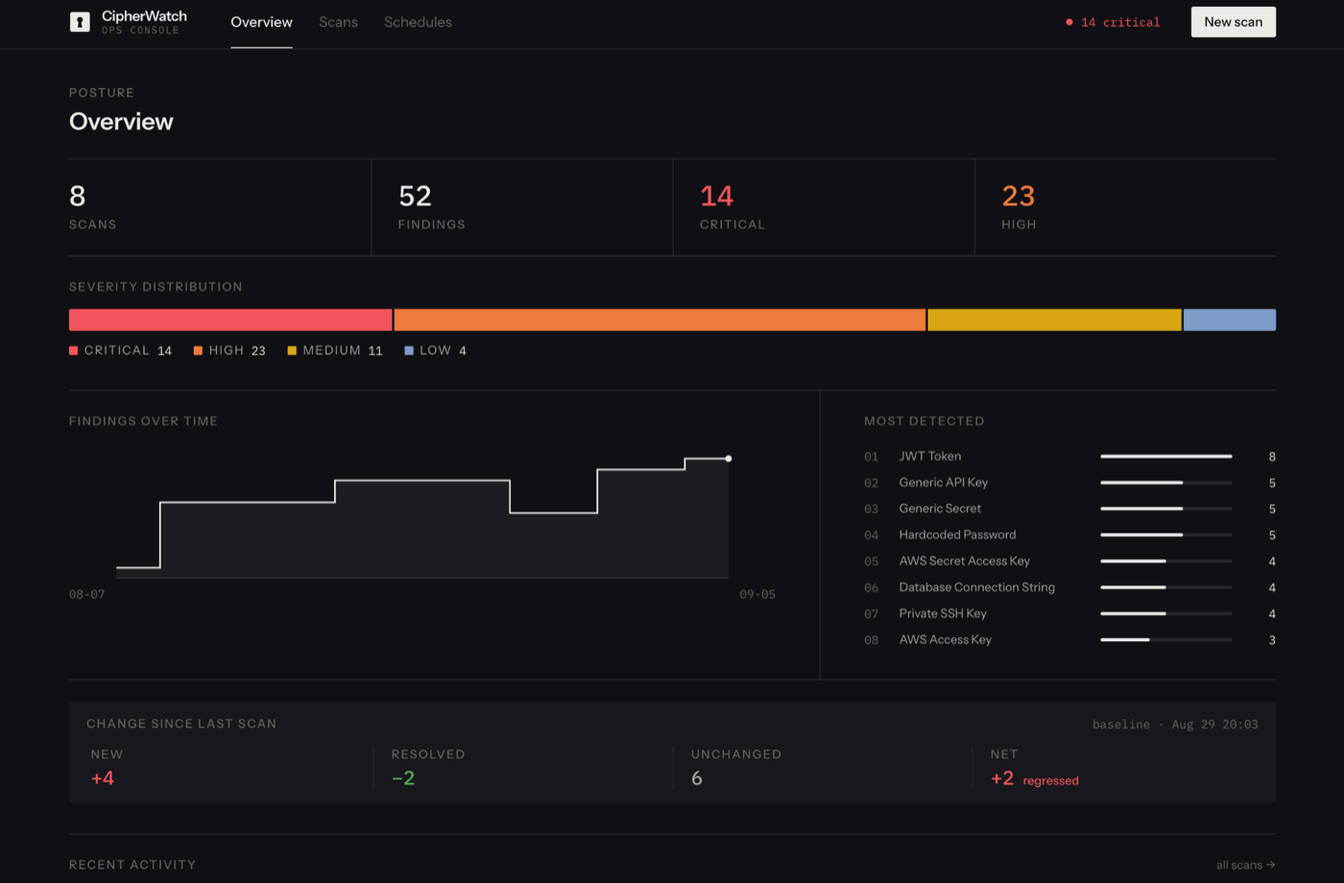
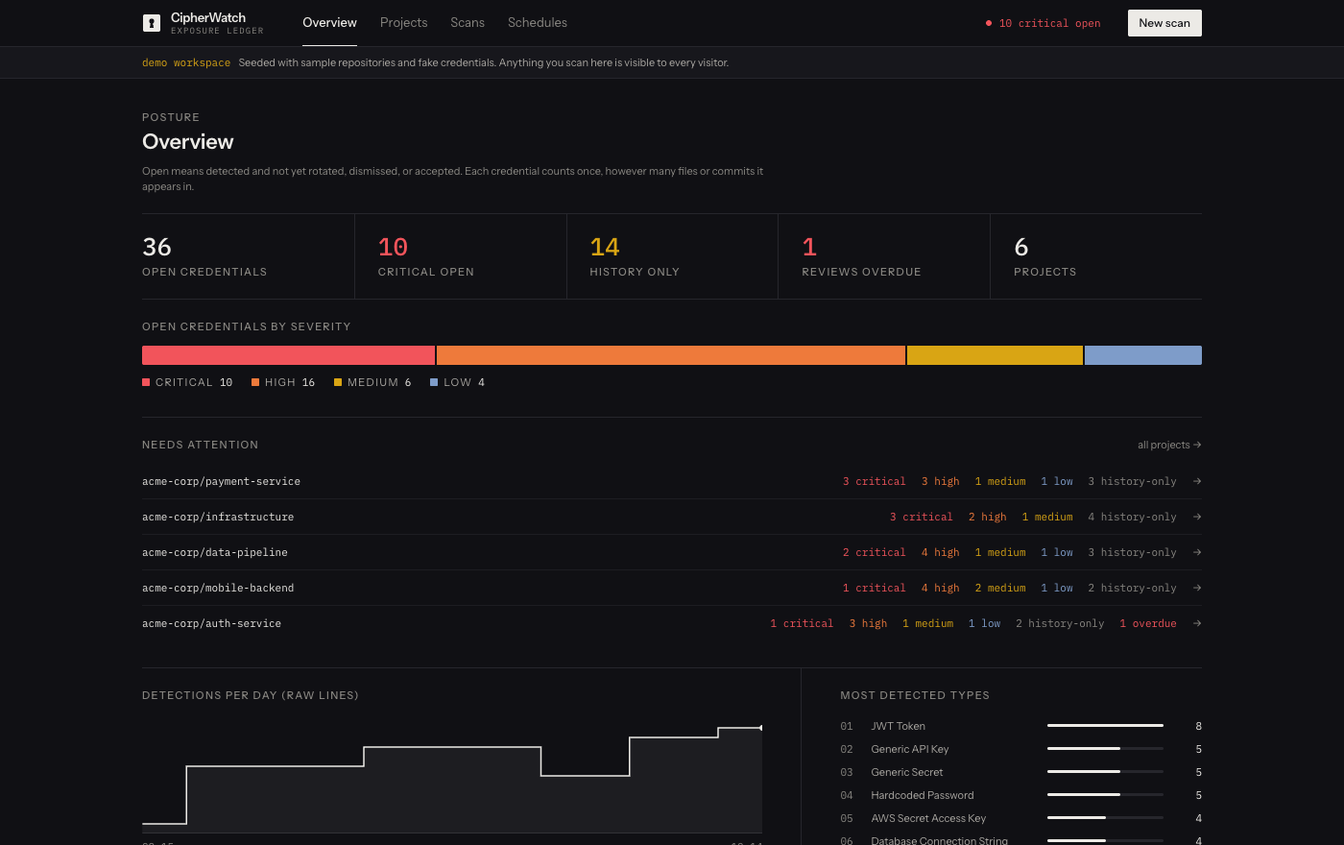
Sync projects and terminal with the knowledge document
- PrepWise: Gemini 3.5 Flash-Lite via the Vercel AI SDK, conversational
  follow-ups, 20 -> 1,000 free requests/day, latency cuts, 172 tests
- SnapCast: now 'Screen Recorder & One-Take Video Editor' with in-browser
  Whisper, pause detection, and WebCodecs export; 108 tests
- CipherWatch: now 'Credential Exposure Ledger' with HMAC-fingerprinted
  records, a CI gate, private mode, and 130 backend tests; screenshot
  replaced with the v3 ledger console (public demo workspace)
- RxFlow: India-first and globally configurable, 5 regional profiles,
  133 API routes, cookie-session security fixes, 82 tests
- Oracle certification uses its official name
- Terminal: per-project commands (prepwise, cipherwatch, ...) and chat
  answers are generated from PROJECTS, so they can't drift from the site

diff --git a/src/data/content.ts b/src/data/content.ts
@@ -119,7 +119,7 @@ export const EDUCATION: Education[] = [
 ]
 
 export const CERTIFICATIONS = [
-  { issuer: 'Oracle University', name: 'Oracle Agentic AI Foundations Associate' },
+  { issuer: 'Oracle University', name: 'Oracle Certified Foundations Associate - Agentic AI' },
   { issuer: 'DeepLearning.AI (Coursera)', name: 'Neural Networks and Deep Learning' },
   { issuer: 'DeepLearning.AI (Coursera)', name: 'Improving Deep Neural Networks: Hyperparameter Tuning, Regularization and Optimization' },
   { issuer: 'AWS Academy', name: 'AWS Academy Graduate - AWS Academy Introduction to Cloud, Semester 1' },
@@ -393,12 +393,12 @@ export const PROJECTS: Project[] = [
     types: ["fs", "ml"],
     num: "03",
     title: "PrepWise - AI Voice Interview Platform",
-    desc: "AI interview platform running adaptive voice interviews with a delivery-aware interviewer, live coding rounds with in-browser code execution, company-specific modes, and résumé-aware questions, entirely on browser-native and free-tier infrastructure.",
+    desc: "AI interview platform running adaptive voice interviews with a conversational interviewer that follows up on what the candidate actually said and reacts to hesitation and confidence, plus live coding rounds with in-browser code execution, company-specific styles, and résumé-aware questions, entirely on browser-native and free-tier infrastructure.",
     badges: [
       { label: "Full-Stack", cls: "fs" },
       { label: "AI / ML", cls: "ml" },
     ],
-    chips: ["Next.js 15", "TypeScript", "Gemini 2.5 Flash", "Web Speech API", "Monaco Editor", "Pyodide / WASM", "Firebase"],
+    chips: ["Next.js 15", "TypeScript", "Gemini 3.5 Flash-Lite", "Vercel AI SDK", "Web Speech API", "Monaco Editor", "Pyodide / WASM", "Firebase"],
     image: "/projects/prepwise.png",
     live: "https://mock-ai-prep.vercel.app",
     repo: "https://github.com/Udit013/ai_mock_interview_prep",
@@ -407,16 +407,16 @@ export const PROJECTS: Project[] = [
       { value: "9", label: "Company Modes" },
     ],
     study: {
-      problem: "Interview practice tools ask scripted questions and score the words you type. They ignore how you actually come across under pressure, and they cannot run a real coding round, the two things that decide onsite outcomes.",
-      approach: "Built a delivery-aware interviewer on Gemini that measures how you speak, not just what you say, and paired it with a CoderPad-style live coding round that executes real code in the browser, no paid speech services, no backend runners.",
+      problem: "Interview practice tools ask scripted questions and score the words you type. They ignore how you actually come across under pressure, rarely follow up on what you just said, and cannot run a real coding round, the things that decide onsite outcomes.",
+      approach: "Built a conversational interviewer on Gemini that follows up on the candidate's actual answers and measures how they speak, not just what they say, kept in line by deterministic guards the model can't override, and paired it with a CoderPad-style live coding round that executes real code in the browser: no paid speech services, no backend runners.",
       result: "Five interview formats (technical, behavioral, mixed, system design, and live coding) with replay, shareable reports, and progress tracking, running at $0 infrastructure cost.",
       highlights: [
-        "Made the interviewer react to how candidates answer: the browser measures hesitation, pace, and filler density each turn, and in live Gemini runs a hesitant answer dropped the confidence estimate from 50 to 20 and triggered a fundamentals probe, all in one schema-validated LLM call per turn",
-        "Cut per-interview speech costs to $0 across 5 interview formats by replacing paid speech-to-text and text-to-speech with browser-native recognition and synthesis, with continuous capture that survives pauses and recognizer restarts",
+        "Made the interviewer react to how candidates answer: the browser measures hesitation, pace, and filler density, and in live Gemini runs a hesitant answer dropped the confidence estimate from 50 to 20 and triggered a fundamentals probe while a composed one raised it to 80, all in one schema-validated LLM call per turn",
+        "Raised free AI capacity from 20 to 1,000 requests/day and cut latency (question generation ~8–10 s → ~2.5 s, interview turns ~4–7 s → ~2–2.5 s) by moving to Gemini Flash-Lite behind a model chain that fails over to a second model only on quota exhaustion or a retired model",
+        "Made interviews feel like a conversation rather than a questionnaire with deterministic guards: a 3-turn cap per topic, a forward-only question index, one question per turn, stripped scripted openers, and content-word similarity scoring that eliminates reworded duplicate questions",
+        "Cut per-interview speech costs to $0 across 5 interview formats with browser-native recognition and synthesis, using continuous capture that survives pauses and recognizer restarts, with retryable submissions and a 45 s cap on every model call",
         "Shipped live coding rounds with real in-browser execution for JavaScript and Python in a terminable Web Worker with a lazily loaded Pyodide (WASM) runtime, killing infinite loops at a 5 s (JS) / 15 s (Python) timeout without freezing the tab",
-        "Supported 9 company interview styles (Google, Amazon, Meta, McKinsey, BCG, and more) from a single config registry, so adding a company is one config entry",
-        "Grounded questions in candidates' real projects by extracting résumé PDFs with unpdf and structuring them with Gemini, and scored each interview on 5 competencies plus STAR completeness with replay and revocable share links",
-        "Closed a class of IDOR vulnerabilities by cutting the public Server Action surface from 19 to 9, alongside session auth, bounded payloads, and per-user daily rate limits, covered by a 120-test Vitest suite in CI",
+        "Closed a class of IDOR vulnerabilities by cutting the public Server Action surface from 19 to 9 and cleared all 5 critical dependency advisories with a Next.js 15.5 upgrade, alongside per-user daily rate limits on every model-backed endpoint, covered by a 172-test Vitest suite in CI",
       ],
     },
     delay: ".06s",
@@ -458,7 +458,7 @@ export const PROJECTS: Project[] = [
     types: ["fs", "dt", "sys"],
     num: "05",
     title: "RxFlow - Multi-Tenant Pharmacy ERP",
-    desc: "Multi-tenant pharmacy ERP for the Indian market: GST-compliant billing (CGST/SGST/IGST, GSTR-1/3B), transactionally consistent inventory and accounting, procurement, and payroll, with real-time multi-device sync over Server-Sent Events, deployed on $0 free-tier infra.",
+    desc: "India-first, globally configurable multi-tenant pharmacy ERP: inventory, tax-compliant billing, procurement, accounting, and payroll with real-time sync, role-based access, and transactionally consistent operations. Country-specific tax, formats, and regulation come from regional profiles rather than code, all on $0 free-tier infra.",
     badges: [
       { label: "Full-Stack", cls: "fs" },
       { label: "Data", cls: "dt" },
@@ -469,20 +469,20 @@ export const PROJECTS: Project[] = [
     live: "https://rx-flow-web.vercel.app",
     repo: "https://github.com/Udit013/RxFlow",
     stats: [
-      { value: "22", label: "API Route Modules" },
-      { value: "5", label: "Distributor Formats" },
+      { value: "133", label: "API Routes" },
+      { value: "5", label: "Regional Profiles" },
     ],
     study: {
-      problem: "Indian pharmacies run on legacy desktop software like Marg and Tally: single-machine, no real-time sync across counters, and GST compliance bolted on. Replacing it means getting inventory, billing, accounting, and payroll correct in one system, for tenants who cannot afford downtime or data drift.",
-      approach: "Built a multi-tenant monorepo where every signup provisions an isolated tenant, made every money-and-stock operation atomic inside database transactions, and pushed updates to every device over Server-Sent Events.",
-      result: "A production ERP covering inventory, GST-compliant billing, procurement, accounting, and payroll, running on $0 free-tier infrastructure with full audit trails.",
+      problem: "Pharmacies run on legacy desktop software like Marg and Tally: single-machine, no real-time sync across counters, and tax compliance bolted on. Replacing it means getting inventory, billing, accounting, and payroll correct in one system, for tenants who cannot afford downtime or data drift, and in more than one country.",
+      approach: "Built a multi-tenant monorepo where every signup provisions an isolated tenant, made every money-and-stock operation atomic inside database transactions, pushed updates to every device over Server-Sent Events, and moved country-specific tax, formats, and regulation into configurable regional profiles.",
+      result: "A production ERP covering inventory, tax-compliant billing, procurement, accounting, and payroll across 5 regional profiles, running on $0 free-tier infrastructure with full audit trails.",
       highlights: [
-        "Built a pnpm/Turborepo monorepo (Fastify API, Next.js 14 web app, shared Prisma package) spanning 22 API route modules and ~40 Prisma models, where every signup provisions an isolated tenant and every query is tenant-scoped from the JWT",
-        "Automated Indian GST compliance end to end (GSTR-1, GSTR-3B, sales/purchase and Schedule H1 registers with Excel/CSV export) with a line-item tax engine that routes CGST+SGST vs IGST by comparing store and party state",
-        "Kept stock and ledgers consistent across sales, purchases, returns, transfers, and stock-takes with single Prisma transactions, and prevented order-number collisions under concurrent billing with a unique-constraint retry",
-        "Kept every open counter in sync without polling through tenant-scoped Server-Sent Events wired into the audit layer, invalidating the exact React Query caches on every connected client",
-        "Built a plugin-based CSV purchase-import architecture where each distributor layout is a small column-map config scored by a shared auto-detector, verified against real invoices from five distributors, so a new distributor is one config addition with zero logic changes",
-        "Hardened auth with rotating refresh JWTs, bcrypt-hashed OTPs, and per-route rate limits, added AES-256-GCM client-side encrypted backups via the Web Crypto API, and gated CI with a 32-test Vitest suite that caught a financial-year boundary bug",
+        "Architected a pnpm/Turborepo monorepo (Fastify API, Next.js 14 web app, shared Prisma, types, and regional packages) spanning 133 API routes across 22 modules and ~40 Prisma models, where every signup provisions an isolated tenant and every query is tenant-scoped",
+        "Made the platform adaptable to any country without code changes: 5 regional profiles (India, US, UK, UAE, international) and 4 pluggable tax engines (India GST, VAT, US sales tax, none), while keeping India's GST behaviour and GSTR-1/GSTR-3B filing data unchanged",
+        "Closed a critical cross-tenant data-exposure path, where a refresh token replayed as an access token silently dropped the tenant filter, and enforced one shared 8-role matrix across 124 authenticated routes",
+        "Moved sessions out of localStorage into rotating httpOnly, SameSite=Strict cookies with SHA-256 token hashes, after finding bcrypt's 72-byte input limit made every refresh token of a user interchangeable",
+        "Kept stock and ledgers consistent under concurrent billing with single Prisma transactions and an in-decrement stock floor that stops overselling, and kept every counter in sync without polling via tenant-scoped Server-Sent Events",
+        "Cut API cold-start boot 3.3× (1.75 s → 0.52 s, measured locally) and export-heavy pages' first-load JS by ~29% (318 → 226 kB), and grew automated coverage from 32 to 82 Vitest tests gated by GitHub Actions CI",
       ],
     },
     delay: ".30s",
@@ -490,32 +490,32 @@ export const PROJECTS: Project[] = [
   {
     types: ["fs", "ml", "sys"],
     num: "06",
-    title: "SnapCast - Screen Recording & Video Sharing",
-    desc: "Browser-native screen recording and sharing with webcam picture-in-picture, direct-to-CDN uploads, Web Speech transcription, Gemini-generated chapters and summaries, 3-tier privacy with share tokens, and channel analytics.",
+    title: "SnapCast - Screen Recorder & One-Take Video Editor",
+    desc: "Screen recorder with a one-take editor for developer demos and walkthroughs: record without rehearsing, tighten pauses and delete flubbed sentences from the transcript, then share the edit or export an MP4. Transcription, audio analysis, and rendering run in the browser, alongside AI chapters, privacy-controlled sharing, and analytics on free-tier infrastructure.",
     badges: [
       { label: "Full-Stack", cls: "fs" },
       { label: "AI / ML", cls: "ml" },
       { label: "Systems", cls: "sys" },
     ],
-    chips: ["Next.js 15", "React 19", "TypeScript", "Neon PostgreSQL", "Drizzle ORM", "Cloudinary", "Gemini"],
+    chips: ["Next.js 15", "React 19", "TypeScript", "Whisper (WASM)", "WebCodecs", "Neon PostgreSQL", "Cloudinary", "Gemini"],
     image: "/projects/snapcast.png",
     live: "https://snapcast-video-sharing.vercel.app",
     repo: "https://github.com/Udit013/screen_recording_sharing_app",
     stats: [
       { value: "1080", suffix: "p", label: "Screen + Webcam" },
-      { value: "500", suffix: "MB", label: "Direct Uploads" },
+      { value: "108", label: "Tests in CI" },
     ],
     study: {
-      problem: "Screen recording tools either demand an extension or a native install, and once a video exists it becomes an opaque blob: no way to search inside it, jump to the moment that matters, or discuss a specific second of it.",
-      approach: "Captured everything in the browser with MediaRecorder and Canvas, uploaded straight to a CDN, transcribed during recording, and used the transcript as the index that makes the video searchable and navigable.",
-      result: "A Loom-style platform where recordings arrive already transcribed, chaptered, summarized, and searchable, with a custom player, threaded timestamp comments, and three tiers of sharing control.",
+      problem: "A clean demo recording usually takes rehearsal or several takes, because the pauses and flubbed sentences of a single take need a separate editing tool, and transcribing or rendering video on a server costs money for every minute processed.",
+      approach: "Kept the whole edit in the browser: Whisper transcription, adaptive pause detection, and WebCodecs MP4 rendering run in Web Workers and WASM, while the server only stores a validated cut list, so edits stay non-destructive and live on share links.",
+      result: "A Loom-style recorder with a one-take editor: tighten pauses and delete flubbed sentences straight from the transcript, then share the edit or export an MP4, at $0 per minute processed.",
       highlights: [
-        "Built extension-free screen recording with webcam picture-in-picture at 1080p / 30 fps by compositing both streams onto a Canvas recorded with MediaRecorder, with a configurable webcam overlay",
-        "Fixed recordings freezing on tab switches by moving the compositor off requestAnimationFrame, which browsers suspend in background tabs, onto a Web Worker timer",
-        "Limited crash or refresh data loss to about 1 second of footage by persisting each MediaRecorder chunk to IndexedDB and offering one-click restore",
-        "Kept video bytes off the app server for uploads up to 500 MB by signing Cloudinary uploads server-side, scoped to a single public_id, and uploading directly from the browser",
-        "Generated summaries, tags, and up to 8 chapters per video by running two Gemini calls concurrently, and made every recording searchable with a live Web Speech transcript and click-to-seek",
-        "Closed 10 cross-user access flaws found in a security audit by centralizing video-access rules in one tested module, and shipped a fully custom player and threaded timestamp comments gated by a 39-test Vitest suite in CI",
+        "Built a transcript-based video editor at $0 per minute processed by running Whisper, pause detection, and MP4 rendering in the browser (Web Workers + WASM), with the server only storing a validated cut list; the editor opens in ~1.6 s on a 10-minute recording",
+        "Detected pauses with an adaptive loudness threshold that matched ffmpeg silencedetect on 8 of 8 pauses within ~60 ms, set from each recording's own noise floor and speech level and refusing to cut below 10 dB of separation",
+        "Fixed Whisper word timestamps running 0.2–0.5 s late, which left deleted sentences partly audible, by snapping word edges to measured pauses, locked in by a regression test on real model output",
+        "Rendered edits to MP4 on the user's hardware with WebCodecs after measuring Cloudinary splicing as unusable (26.4 s instead of 15 s), keeping audio and video within 31 ms at 5–7× real time",
+        "Built extension-free 1080p / 30 fps recording with a webcam overlay, a Web Worker timer so recordings don't freeze in background tabs, IndexedDB crash recovery that loses at most ~1 s, and direct signed uploads up to 500 MB",
+        "Closed 10 cross-user access flaws from a security audit by centralizing access rules in one unit-tested module, and shipped a custom player, timestamp comments, revocable share links, and SQL-aggregated analytics gated by 108 tests in CI",
       ],
     },
     delay: ".18s",
@@ -523,30 +523,30 @@ export const PROJECTS: Project[] = [
   {
     types: ["sys"],
     num: "07",
-    title: "CipherWatch - Secret Exposure & Risk Detection",
-    desc: "DevSecOps platform detecting hardcoded secrets in GitHub repositories and pasted code via regex, Shannon-entropy gating, and placeholder/test-file filtering, with opt-in git-history scanning, 0–100 exposure risk scoring, differential scanning, real-time WebSocket progress, and SARIF export.",
+    title: "CipherWatch - Credential Exposure Ledger",
+    desc: "Credential exposure ledger for GitHub repositories: detects leaked credentials in current code and git history, collapses every copy into one record keyed by an HMAC fingerprint that never contains the secret, and tracks each to a decision (rotated, false positive, or accepted risk with an expiry), with a CI gate that fails only on new credentials and emits SARIF.",
     badges: [
       { label: "Systems", cls: "sys" },
     ],
-    chips: ["Python", "FastAPI", "SQLAlchemy", "SQLite", "WebSockets", "React", "APScheduler"],
+    chips: ["Python", "FastAPI", "SQLAlchemy", "PostgreSQL / SQLite", "React", "TypeScript", "Docker", "GitHub Actions"],
     image: "/projects/cipherwatch.png",
     live: "https://cipherwatch-web.vercel.app",
     repo: "https://github.com/Udit013/automated-secrets-scanner",
     stats: [
-      { value: "26", label: "Secret Types" },
-      { value: "96", suffix: "K", label: "Lines / sec" },
+      { value: "26", label: "Credential Types" },
+      { value: "130", label: "Backend Tests" },
     ],
     study: {
-      problem: "A credential committed once stays in git history forever, and scanning only the current checkout misses it entirely. Worse, naive pattern matching floods engineers with false positives until they stop reading the report.",
-      approach: "Paired format-specific regexes with Shannon-entropy gating and placeholder and test-path filtering to cut noise, reconstructed each secret's exposure lifecycle from opt-in git-history scans, and scored every finding on a transparent 0–100 scale.",
-      result: "A DevSecOps platform detecting 26 credential types across 36 file extensions at ~96K lines/sec, exporting SARIF 2.1.0 for GitHub code scanning, behind a security console built from scratch.",
+      problem: "A credential committed once stays in git history until someone rotates it, and scanning only the current checkout misses it. Scanners also report every copy of a key as a separate finding with no memory of what was already triaged, so teams stop reading the report.",
+      approach: "Fingerprinted every credential with a keyed HMAC so each copy across files and commits becomes one ledger record tracked to a decision, and gated CI only on credentials that are not already in a committed baseline.",
+      result: "A credential exposure ledger with a CLI and composite GitHub Action that emit SARIF, a console with per-project triage and provider rotation links, and an optional private mode, running at $0 on free tiers.",
       highlights: [
-        "Detected 26 credential types (AWS, GCP, GitHub, Stripe, Slack, JWTs, SSH/PGP keys, database connection strings) across 36 file extensions at ~96K lines/sec by pairing 23 format-specific regexes with Shannon-entropy gating and 23 placeholder and test-path rules",
-        "Collapsed 1,351 per-commit matches across 907 file snapshots into 82 unique findings (−94%) by aggregating each secret and reconstructing its lifecycle: introduced and last-seen dates, exposure days, commits, and distinct authors",
-        "Made triage explainable with a 0–100 exposure risk score where every point traces to a stated reason, plus differential scanning that labels findings new, resolved, or unchanged against the prior run",
-        "Built an async FastAPI backend with 18 REST endpoints and a WebSocket channel streaming scan-lifecycle events, cron-scheduled scans with SMTP alerts, and bounded inputs on every endpoint, deployed at $0 on Render + Vercel",
-        "Plugged findings into existing workflows with 5 export formats, including SARIF 2.1.0 for GitHub code scanning and a downloadable remediation patch for 6 targets",
-        "Cut shipped JavaScript by 56% (733 → 321 KB) by replacing charting and icon libraries with hand-built SVG inside a from-scratch design system (15.8:1 text contrast), verified by 75 tests in a 4-job GitHub Actions pipeline",
+        "Detected 26 credential types (8 critical, 17 high, 1 medium) across 40 file extensions plus 11 extensionless credential files (id_rsa, .npmrc, …) by pairing 23 format-specific regexes with Shannon-entropy gating and 14 placeholder rules; measured ~96K lines/sec single-threaded on v2.1 of the engine",
+        "Turned line-level findings into a credential ledger with keyed HMAC-SHA256 fingerprints, so one key copied across files and commits is one record whose triage decision persists across rescans; accepted risks require a review date within 366 days and reopen automatically",
+        "Built a CI gate that fails only on new credentials: a CLI (exit codes 0 / 1 / 2, text / JSON / SARIF 2.1.0) and a composite GitHub Action that passes inputs only through env vars, with baselines that store fingerprints, never secrets",
+        "Added optional private mode covering all 22 HTTP endpoints plus the WebSocket, with the token kept out of URLs and access logs, and bounded the public demo with a per-IP sliding window (10 scans / 10 min) that can't be spoofed through X-Forwarded-For",
+        "Found and fixed real defects by testing against PostgreSQL and real repositories, including scheduler timestamps Postgres rejected, fingerprints that changed every scan, and key files never scanned while .venv was (2,392 → 89 files)",
+        "Verified every change with 130 backend tests plus 19 legacy tests on SQLite, PostgreSQL 18, and Python 3.11 in a 4-job GitHub Actions pipeline, with 0 known vulnerabilities from pip-audit and runtime npm audit, deployed at $0",
       ],
     },
     delay: ".36s",

diff --git a/src/data/terminal.ts b/src/data/terminal.ts
@@ -2,7 +2,40 @@
  * terminal.ts — knowledge base + chat FAQ for the interactive terminal.
  * The string values may contain HTML (rendered via dangerouslySetInnerHTML,
  * exactly as in the original vanilla implementation — content is static/trusted).
+ *
+ * Per-project commands (`prepwise`, `cipherwatch`, …) and their chat answers
+ * are generated from PROJECTS in content.ts, so the terminal can't drift from
+ * the project cards and case-study drawers.
  */
+import { PROJECTS, type Project } from './content'
+
+const esc = (s: string) => s.replace(/&/g, '&amp;').replace(/</g, '&lt;').replace(/>/g, '&gt;')
+const link = (href: string, text: string) =>
+  `<a class="t-link" href="${href}" target="_blank" rel="noopener noreferrer">${text}</a>`
+
+/** "PrepWise - AI Voice Interview Platform" → command "prepwise" */
+const projectKey = (p: Project) => p.title.split(' - ')[0].trim().toLowerCase().replace(/[^a-z0-9]/g, '')
+
+function projectDetail(p: Project): string {
+  const [name, subtitle] = p.title.split(' - ')
+  const stats = (p.stats ?? []).map((s) => `<span class="t-hi">${esc(s.value + (s.suffix ?? ''))}</span> ${esc(s.label)}`).join('  ·  ')
+  const links = [
+    p.live && link(p.live, 'live'),
+    p.repo && link(p.repo, 'code'),
+    p.paper && link(p.paper, 'paper'),
+    p.model && link(p.model, 'model'),
+  ].filter(Boolean).join(' · ')
+  return [
+    `<span class="t-hi">${esc(name)}</span>${subtitle ? `  ·  ${esc(subtitle)}` : ''}`,
+    esc(p.desc),
+    stats,
+    ...(p.study?.highlights ?? []).map((h) => `  → ${esc(h)}`),
+    `<span class="t-sys">${esc(p.chips.join(' · '))}</span>`,
+    links,
+  ].filter(Boolean).join('\n')
+}
+
+const PROJECT_COMMANDS: Record<string, string> = Object.fromEntries(PROJECTS.map((p) => [projectKey(p), projectDetail(p)]))
 
 export const KB: Record<string, string> = {
   help: `<span class="t-sys">Portfolio Terminal  ·  Commands:</span>
@@ -11,6 +44,7 @@ export const KB: Record<string, string> = {
 <span class="t-hi">skills</span>         Full tech stack
 <span class="t-hi">experience</span>     Work history
 <span class="t-hi">projects</span>       Flagship projects
+<span class="t-hi">&lt;project&gt;</span>      Details, e.g. <span class="t-hi">prepwise</span> · <span class="t-hi">cipherwatch</span>
 <span class="t-hi">education</span>      Academic background
 <span class="t-hi">research</span>       IEEE publication &amp; AI/ML
 <span class="t-hi">certifications</span> Oracle, DeepLearning.AI &amp; AWS Academy
@@ -74,15 +108,17 @@ Email: agarwaludit13@gmail.com  ·  Phone: +1 (930) 904-4901
 <span class="t-hi">02</span>  Veritome (Biomedical RAG)       [AI/ML] · <a class="t-link" href="https://huggingface.co/spaces/Udit013/biomed-assistant" target="_blank" rel="noopener noreferrer">live</a>
     Qwen2.5-7B QLoRA · RAG · LangGraph agents · pgvector
 <span class="t-hi">03</span>  PrepWise (AI Voice Interviews)  [AI/ML · Full-Stack] · <a class="t-link" href="https://mock-ai-prep.vercel.app" target="_blank" rel="noopener noreferrer">live</a>
-    Gemini 2.5 · Web Speech · Monaco + Pyodide/WASM · $0 infra
+    Gemini 3.5 Flash-Lite · Web Speech · Monaco + Pyodide/WASM · $0 infra
 <span class="t-hi">04</span>  CoreSightIQ (Decision Intel.)   [Analytics] · <a class="t-link" href="https://coresightiq.vercel.app" target="_blank" rel="noopener noreferrer">live</a>
     3 products, 1 core engine · walk-forward backtesting
 <span class="t-hi">05</span>  RxFlow (Pharmacy ERP)           [Full-Stack] · <a class="t-link" href="https://rx-flow-web.vercel.app" target="_blank" rel="noopener noreferrer">live</a>
-    Multi-tenant · GST billing · real-time sync (SSE)
-<span class="t-hi">06</span>  SnapCast (Screen Recording)     [Full-Stack] · <a class="t-link" href="https://snapcast-video-sharing.vercel.app" target="_blank" rel="noopener noreferrer">live</a>
+    Multi-tenant · 5 regional profiles · 4 tax engines · SSE sync
+<span class="t-hi">06</span>  SnapCast (One-Take Editor)      [Full-Stack] · <a class="t-link" href="https://snapcast-video-sharing.vercel.app" target="_blank" rel="noopener noreferrer">live</a>
     Next.js · Cloudinary · AI chapters · better-auth
-<span class="t-hi">07</span>  CipherWatch (Secret Exposure)   [Systems] · <a class="t-link" href="https://cipherwatch-web.vercel.app" target="_blank" rel="noopener noreferrer">live</a>
-    FastAPI · entropy + regex · SARIF · 26 secret types`,
+<span class="t-hi">07</span>  CipherWatch (Credential Ledger) [Systems] · <a class="t-link" href="https://cipherwatch-web.vercel.app" target="_blank" rel="noopener noreferrer">live</a>
+    HMAC ledger · CI gate · SARIF · 26 credential types
+
+<span class="t-sys">Type a project name (e.g. prepwise) for details.</span>`,
 
   education: `<span class="t-hi">MS Computer Science</span>  ·  Indiana University Bloomington
   Aug 2024 – May 2026  ·  GPA: <span class="t-hi">3.84 / 4.0</span>
@@ -106,7 +142,7 @@ Role:     Co-author
   Transformers · BERT · Prompt Engineering · RAG`,
 
   certifications: `<span class="t-hi">Oracle University</span>
-  Oracle Agentic AI Foundations Associate · Sep 2026
+  Oracle Certified Foundations Associate - Agentic AI · Sep 2026
 
 <span class="t-hi">DeepLearning.AI (Coursera)</span>
   Neural Networks and Deep Learning
@@ -152,18 +188,25 @@ Role:     Co-author
   ml: 'research',
   pub: 'research',
   certs: 'certifications',
+
+  ...PROJECT_COMMANDS,
 }
 
 export const CHAT_FAQ: { q: RegExp; a: string }[] = [
+  // A named project gets its own answer before the generic "projects" one.
+  ...PROJECTS.map((p) => ({
+    q: new RegExp(`\\b${projectKey(p)}\\b`, 'i'),
+    a: `${esc(p.title)}: ${esc(p.desc)} Type <span class="t-hi">${projectKey(p)}</span> for highlights and links.`,
+  })),
   { q: /hire|job|full.?time|intern|open.?to|available|role/i, a: 'Udit is open to full-time SWE, AI/ML, and Data roles. Open to remote, hybrid, and relocation anywhere in the US. Email: agarwaludit13@gmail.com · Phone: +1 (930) 904-4901' },
   { q: /ieee|research|paper|publish|brain.?tumor/i, a: 'Udit co-authored an IEEE paper at ICC-ROBINS 2024 on brain tumor classification: 99.84% accuracy on 7,023 MRI scans with EfficientNetB3. DOI: 10.1109/ICC-ROBINS60238.2024.10533941' },
   { q: /gpa|grade|school|degree|university|master|indiana/i, a: 'MS CS at Indiana University Bloomington, GPA 3.84/4.0, May 2026. B.Tech at KIIT, GPA 8.85/10.0.' },
   { q: /skill|tech|stack|language|python|react|framework/i, a: 'Python, TypeScript, React, Next.js, Node.js, Fastify, FastAPI, PostgreSQL, PyTorch, TensorFlow, Hugging Face, QLoRA, Gemini API, Ollama, Docker, AWS. Type "skills" for the full list.' },
-  { q: /project|built|app|demo|portfolio/i, a: '7 flagship projects: NeuroClass (IEEE brain tumor MRI classifier), PrepWise (AI voice interviews), Veritome (biomedical RAG + QLoRA), SnapCast (screen recording), CoreSightIQ (decision intelligence), RxFlow (multi-tenant pharmacy ERP), and CipherWatch (secret exposure detection). Type "projects" for all.' },
+  { q: /project|built|app|demo|portfolio/i, a: '7 flagship projects: NeuroClass (IEEE brain tumor MRI classifier), PrepWise (AI voice interviews), Veritome (biomedical RAG + QLoRA), SnapCast (screen recorder and one-take editor), CoreSightIQ (decision intelligence), RxFlow (multi-tenant pharmacy ERP), and CipherWatch (credential exposure ledger). Type "projects" for all, or a project name for details.' },
   { q: /contact|email|phone|reach|talk/i, a: 'agarwaludit13@gmail.com · +1 (930) 904-4901 · linkedin.com/in/udit013 · Responds within 24h.' },
   { q: /llm|voice|gemini|vapi|gpt|generative|qlora|fine.?tun|rag|agent/i, a: 'LLM work spans QLoRA/PEFT fine-tuning (Qwen2.5-7B), cited RAG over PubMed with pgvector, LangGraph multi-agent workflows with per-claim citation verification, Gemini API, Ollama, and LLM evaluation with lm-evaluation-harness. Built Veritome, a live biomedical research assistant, and voice interviews on browser-native speech + Gemini.' },
   { q: /data|etl|tableau|airflow|pipeline|analytics|forecast/i, a: 'Strong data engineering & analytics: ETL pipelines, PostgreSQL, forecasting, cohort retention, and A/B testing; see CoreSightIQ, which unifies three analytics products on one core engine with auditable, calibrated metrics (walk-forward backtesting, Brier/ECE).' },
   { q: /location|remote|reloc|where/i, a: 'Based in Bloomington, IN (EST). Open to remote, hybrid, and relocation.' },
-  { q: /cert|aws|deeplearning/i, a: 'Certifications: Oracle Agentic AI Foundations Associate (Oracle University, Sep 2026), Neural Networks and Deep Learning plus Improving Deep Neural Networks (DeepLearning.AI on Coursera, Sep 2023), and AWS Academy Graduate - Introduction to Cloud, Semester 1 (Jul 2023).' },
+  { q: /cert|aws|deeplearning/i, a: 'Certifications: Oracle Certified Foundations Associate - Agentic AI (Oracle University, Sep 2026), Neural Networks and Deep Learning plus Improving Deep Neural Networks (DeepLearning.AI on Coursera, Sep 2023), and AWS Academy Graduate - Introduction to Cloud, Semester 1 (Jul 2023).' },
   { q: /now|current|exploring/i, a: 'Currently: Senior Consultant at Heartland Community Network and IT Services Consultant at IU UITS. Exploring LLM agents, real-time voice AI, and cloud-native systems.' },
 ]
